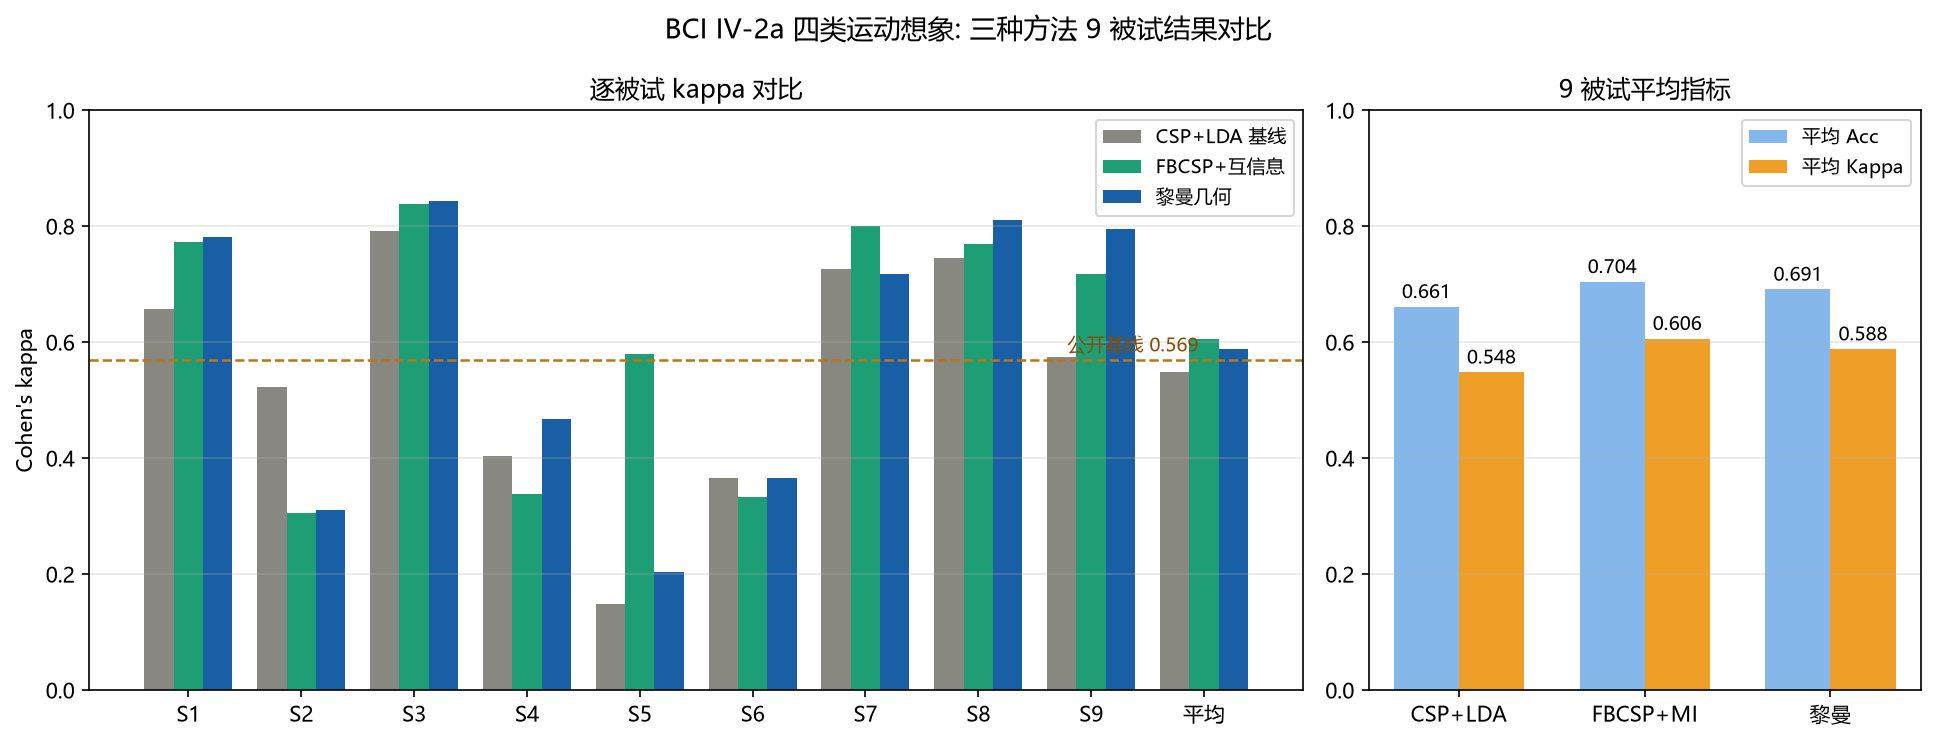
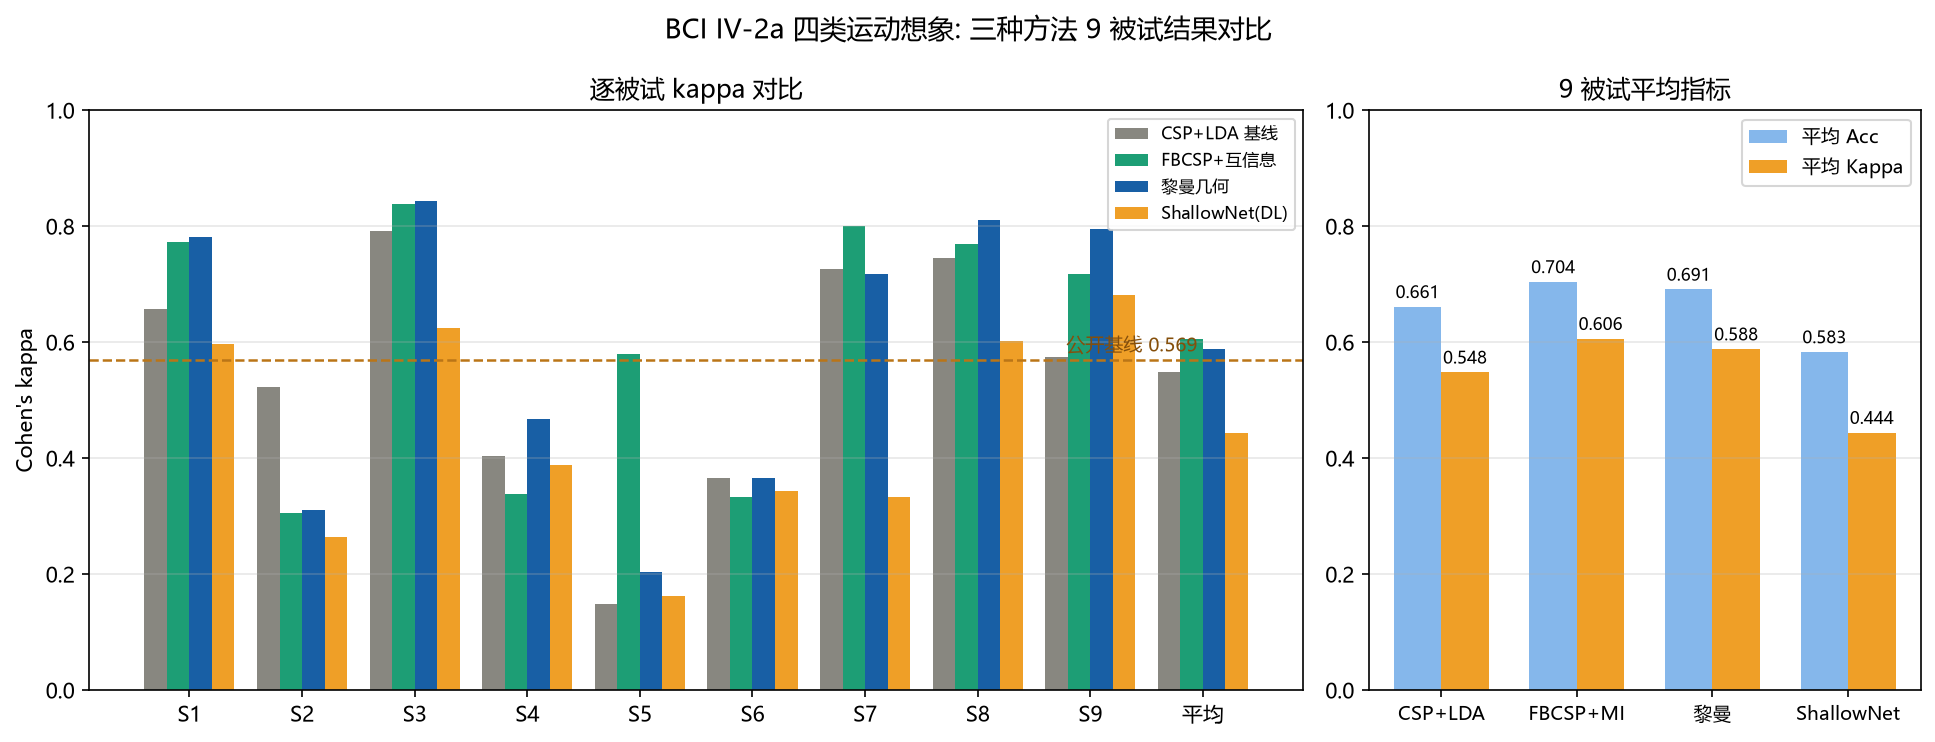
docs: 添加 ShallowNet 深度学习结果, 更新为四方法对比分析

Changed region(s): [[0.062, 0.155, 0.6822, 0.9299], [0.7132, 0.341, 0.9922, 0.9919], [0.7132, 0.372, 0.7442, 0.403]]

diff --git a/plot_method_comparison.py b/plot_method_comparison.py
@@ -19,9 +19,10 @@ KAPPA = {
     "CSP+LDA 基线":   [0.657, 0.523, 0.792, 0.403, 0.148, 0.366, 0.727, 0.745, 0.574, 0.548],
     "FBCSP+互信息":   [0.773, 0.306, 0.838, 0.338, 0.579, 0.333, 0.801, 0.769, 0.718, 0.606],
     "黎曼几何":       [0.782, 0.310, 0.843, 0.468, 0.204, 0.366, 0.718, 0.810, 0.796, 0.588],
+    "ShallowNet(DL)": [0.597, 0.264, 0.625, 0.389, 0.162, 0.343, 0.333, 0.602, 0.681, 0.444],
 }
-MEAN_ACC = {"CSP+LDA 基线": 0.661, "FBCSP+互信息": 0.704, "黎曼几何": 0.691}
-COLORS = {"CSP+LDA 基线": "#888780", "FBCSP+互信息": "#1D9E75", "黎曼几何": "#185FA5"}
+MEAN_ACC = {"CSP+LDA 基线": 0.661, "FBCSP+互信息": 0.704, "黎曼几何": 0.691, "ShallowNet(DL)": 0.583}
+COLORS = {"CSP+LDA 基线": "#888780", "FBCSP+互信息": "#1D9E75", "黎曼几何": "#185FA5", "ShallowNet(DL)": "#EF9F27"}
 REF_KAPPA = 0.569  # FBCSP 公开基线
 
 fig, axes = plt.subplots(1, 2, figsize=(13, 5), gridspec_kw={"width_ratios": [2.2, 1]})
@@ -29,9 +30,10 @@ fig, axes = plt.subplots(1, 2, figsize=(13, 5), gridspec_kw={"width_ratios": [2.
 # ---- 左图: 逐被试 kappa 分组柱状图 ----
 ax = axes[0]
 x = np.arange(len(subjects))
-w = 0.26
+n_methods = len(KAPPA)
+w = 0.8 / n_methods
 for i, (name, vals) in enumerate(KAPPA.items()):
-    ax.bar(x + (i - 1) * w, vals, w, label=name, color=COLORS[name])
+    ax.bar(x + (i - (n_methods - 1) / 2) * w, vals, w, label=name, color=COLORS[name])
 ax.axhline(REF_KAPPA, ls="--", lw=1.2, color="#BA7517")
 ax.text(len(subjects) - 1.05, REF_KAPPA + 0.015, f"公开基线 {REF_KAPPA}",
         color="#854F0B", fontsize=9, ha="right")
@@ -40,7 +42,7 @@ ax.set_xticklabels(subjects)
 ax.set_ylim(0, 1.0)
 ax.set_ylabel("Cohen's kappa")
 ax.set_title("逐被试 kappa 对比")
-ax.legend(loc="upper right", fontsize=9)
+ax.legend(loc="upper right", fontsize=8)
 ax.grid(axis="y", alpha=0.3)
 
 # ---- 右图: 9 被试平均 acc 与 kappa ----
@@ -48,15 +50,15 @@ ax = axes[1]
 methods = list(KAPPA.keys())
 acc = [MEAN_ACC[m] for m in methods]
 kap = [v[-1] for v in KAPPA.values()]  # 最后一列是平均
-xx = np.arange(3)
+xx = np.arange(len(methods))
 w2 = 0.35
 ax.bar(xx - w2 / 2, acc, w2, label="平均 Acc", color="#85B7EB")
 ax.bar(xx + w2 / 2, kap, w2, label="平均 Kappa", color="#EF9F27")
 for i, (a, k) in enumerate(zip(acc, kap)):
-    ax.text(i - w2 / 2, a + 0.015, f"{a:.3f}", ha="center", fontsize=9)
-    ax.text(i + w2 / 2, k + 0.015, f"{k:.3f}", ha="center", fontsize=9)
+    ax.text(i - w2 / 2, a + 0.015, f"{a:.3f}", ha="center", fontsize=8)
+    ax.text(i + w2 / 2, k + 0.015, f"{k:.3f}", ha="center", fontsize=8)
 ax.set_xticks(xx)
-ax.set_xticklabels(["CSP+LDA", "FBCSP+MI", "黎曼"], fontsize=10)
+ax.set_xticklabels(["CSP+LDA", "FBCSP+MI", "黎曼", "ShallowNet"], fontsize=9)
 ax.set_ylim(0, 1.0)
 ax.set_title("9 被试平均指标")
 ax.legend(loc="upper right", fontsize=9)

diff --git a/README.md b/README.md
@@ -40,28 +40,37 @@ python fbcsp_baseline.py --n_classes 2  # 左右二分类
 
 ## 实测结果（4 类，T 会话内分层 10 折 CV，random_state=42）
 
-![三种方法对比](figures/method_comparison.png)
+![四种方法对比](figures/method_comparison.png)
 
-| Subject | CSP+LDA kappa | FBCSP+MI kappa | 黎曼几何 kappa |
-|---------|--------------|----------------|----------------|
-| 1 | 0.657 | 0.773 | **0.782** |
-| 2 | **0.523** | 0.306 | 0.310 |
-| 3 | 0.792 | 0.838 | **0.843** |
-| 4 | 0.403 | 0.338 | **0.468** |
-| 5 | 0.148 | **0.579** | 0.204 |
-| 6 | 0.366 | 0.333 | **0.366** |
-| 7 | 0.727 | **0.801** | 0.718 |
-| 8 | 0.745 | 0.769 | **0.810** |
-| 9 | 0.574 | 0.718 | **0.796** |
-| **平均 kappa** | 0.548 | **0.606** | 0.588 |
-| **平均 Acc** | 0.661 | **0.704** | 0.691 |
+| Subject | CSP+LDA | FBCSP+MI | 黎曼几何 | ShallowNet (DL) |
+|---------|---------|----------|----------|-----------------|
+| 1 | 0.657 | 0.773 | **0.782** | 0.597 |
+| 2 | **0.523** | 0.306 | 0.310 | 0.264 |
+| 3 | 0.792 | 0.838 | **0.843** | 0.625 |
+| 4 | 0.403 | 0.338 | **0.468** | 0.389 |
+| 5 | 0.148 | **0.579** | 0.204 | 0.162 |
+| 6 | **0.366** | 0.333 | **0.366** | 0.343 |
+| 7 | 0.727 | **0.801** | 0.718 | 0.333 |
+| 8 | 0.745 | 0.769 | **0.810** | 0.602 |
+| 9 | 0.574 | 0.718 | **0.796** | 0.681 |
+| **平均 kappa** | 0.548 | **0.606** | 0.588 | 0.444 |
+| **平均 Acc** | 0.661 | **0.704** | 0.691 | 0.583 |
 
 **主要结论**：
 
-1. 两种优化方案均超过比赛公开基线（kappa ~0.569）：**FBCSP+MI 最优（0.606）**，黎曼几何次之（0.588），均明显优于 CSP+LDA 基线（0.548）。
-2. **没有单一方法全面占优**：FBCSP+MI 在 S1/S5/S7/S9 占优，黎曼在 S4/S8/S9 占优。按被试取最优方法的"oracle 上限"约 0.663，提示**被试自适应方法选择/模型集成**是下一步最有价值的方向。
-3. **个体差异主导**：S2/S4/S6 在三种方法下都低于 0.47，属于"困难被试"；S5 的判别信息可能分散在多个频带（FBCSP 0.579 远超其他方法的 ~0.2）。
-4. ⚠ 消融说明：FBCSP 相对基线的提升混合了**时间窗裁剪 + 滤波器组 + 互信息选择**三个因素，尚未单独拆分各自贡献。
+1. **方法排序**：FBCSP+MI (0.606) > 黎曼几何 (0.588) > CSP+LDA (0.548) ≫ ShallowNet (0.444)。
+   两种经典优化均超过比赛公开基线（~0.569）。
+2. **深度学习在小样本 EEG 上不敌经典方法**：ShallowNet 采用跨被试预训练 + 微调 + S&R 数据增强，
+   平均 kappa 仍只有 0.444（每被试仅 288 个试次）。且其微调阶段冻结了时空卷积层、
+   只适配 BN 与分类头，表征适配受限；在 CPU 上训练也限制了调参空间。
+   这与文献一致：小规模单会话数据下 CSP 类方法通常优于端到端 CNN。
+3. **没有单一经典方法全面占优**：FBCSP+MI 在 S1/S5/S7 占优，黎曼在 S4/S8/S9 占优。
+   按被试取最优方法的 "oracle 上限" 约 0.663，提示**被试自适应方法选择/模型集成**
+   是下一步最有价值的方向。
+4. **个体差异主导**：S2/S4/S6 在所有方法下都低于 0.47，属于"困难被试"；
+   S5 的判别信息分散在多个频带（FBCSP 0.579 远超其他方法的 ~0.2）。
+5. ⚠ 消融说明：FBCSP 相对基线的提升混合了**时间窗裁剪 + 滤波器组 + 互信息选择**三个因素，
+   尚未单独拆分各自贡献。
 
 ## 目录结构
 
@@ -69,9 +78,10 @@ python fbcsp_baseline.py --n_classes 2  # 左右二分类
 motor-imagery-bci/
 ├── motor_imagery_baseline.py    # 基线：CSP + LDA
 ├── fbcsp_baseline.py            # 优化：FBCSP + 互信息特征选择 + 时间窗裁剪
+├── dl_baseline.py               # 深度学习：ShallowNet/EEGNet + 跨被试预训练微调
 ├── plot_method_comparison.py    # 生成 figures/method_comparison.png 对比图
 ├── figures/
-│   └── method_comparison.png    # 三种方法 9 被试结果对比图
+│   └── method_comparison.png    # 四种方法 9 被试结果对比图
 ├── requirements.txt
 ├── README.md
 ├── .gitignore
